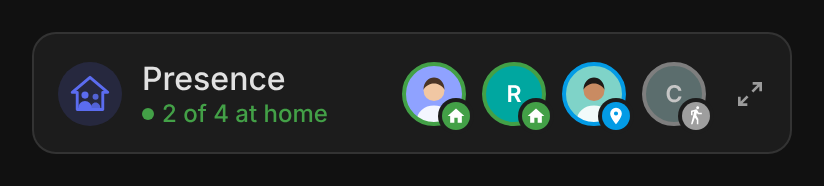
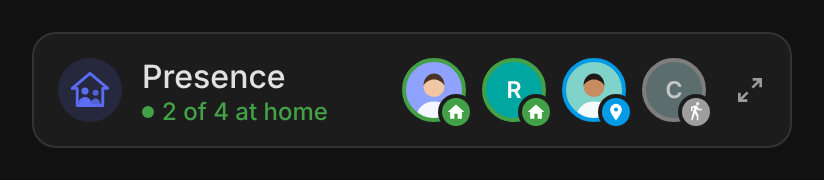
Header spacing like the other cards
Claude-Session: https://claude.ai/code/session_01NW8HrjdUvTF3zwsaKKxQNw

diff --git a/src/presence-card.js b/src/presence-card.js
@@ -331,7 +331,7 @@ const BASE_STYLE = `
   .chip { display: inline-flex; align-items: center; gap: 4px; padding: 1px 8px; border-radius: 12px; font-size: 11px; font-weight: 500;
           background: color-mix(in srgb, var(--c, var(--pr-home)) 15%, transparent); color: var(--c, var(--pr-home)); white-space: nowrap; }
   .chip .icon { width: 12px; height: 12px; }
-  .header { display: flex; align-items: center; gap: 10px; padding: 12px 12px 4px; }
+  .header { display: flex; align-items: center; gap: 10px; padding: 12px 12px 0; }
   .titles { flex: 1; min-width: 0; }
   .logo { --c: var(--pr-accent); width: 40px; height: 40px; border-radius: 50%; display: grid; place-items: center; flex: none; align-self: flex-start;
           background: color-mix(in srgb, var(--c) 16%, transparent); color: var(--c); }
@@ -504,7 +504,7 @@ class PresenceBase extends HTMLElement {
 // ---------------------------------------------------------------------------
 
 const FULL_STYLE = `
-  .content { padding: 4px 12px 12px; display: flex; flex-direction: column; gap: 6px; }
+  .content { padding: 8px 12px 12px; display: flex; flex-direction: column; gap: 6px; }
   .person { display: flex; align-items: center; gap: 12px; padding: 8px 10px; border-radius: 12px;
             background: var(--secondary-background-color, rgba(127,127,127,.08)); }
   .person .who { flex: 1; min-width: 0; }
@@ -593,6 +593,7 @@ const MINI_STYLE = `
   .mini .header > .logo, .mini .zoom { align-self: center; }
   .mini .header > .logo { width: 32px; height: 32px; }
   .mini .header > .logo .icon { width: 20px; height: 20px; }
+  .mini .header > .titles { margin-block: -2px; }
   .mini .zoom { margin: -4px -4px -4px 0; }
   .sub .st { color: var(--c); font-weight: 500; }
   .dot { display: inline-block; width: 6px; height: 6px; border-radius: 50%; background: var(--c); margin-right: 4px; vertical-align: 1px; }

diff --git a/CHANGELOG.md b/CHANGELOG.md
@@ -4,6 +4,7 @@
 
 ### Changed
 - Header logo on a round tinted badge (40 px, 32 px on the mini card) in the card's accent color, like the other ha-* cards.
+- Header spacing like the other cards: the mini card's icon sits 12 px from the top edge (was 13.5 px), and the people list starts 8 px under the header box (the header no longer carries a 4 px bottom padding; same spacing on screen).
 
 ### Maintenance
 - Screenshots: English everywhere (no more French dark shots), on the shared 16 px frame and theme tokens.
